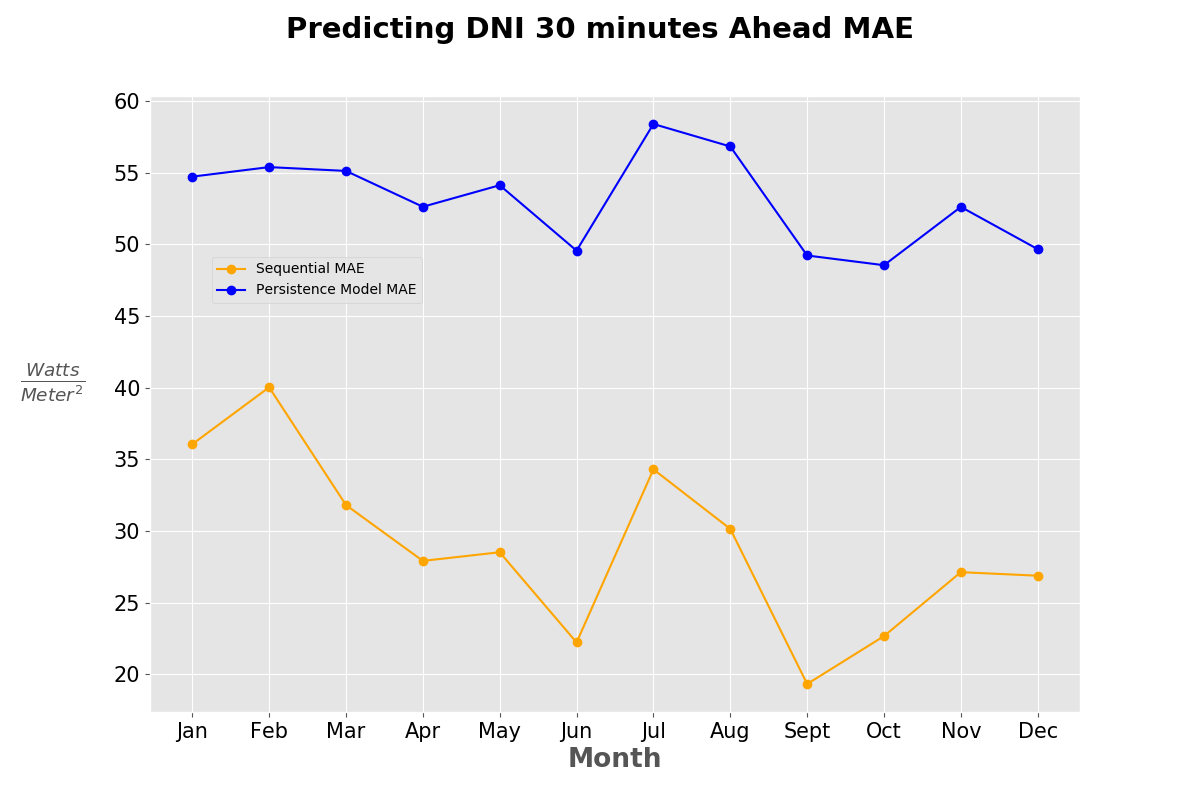
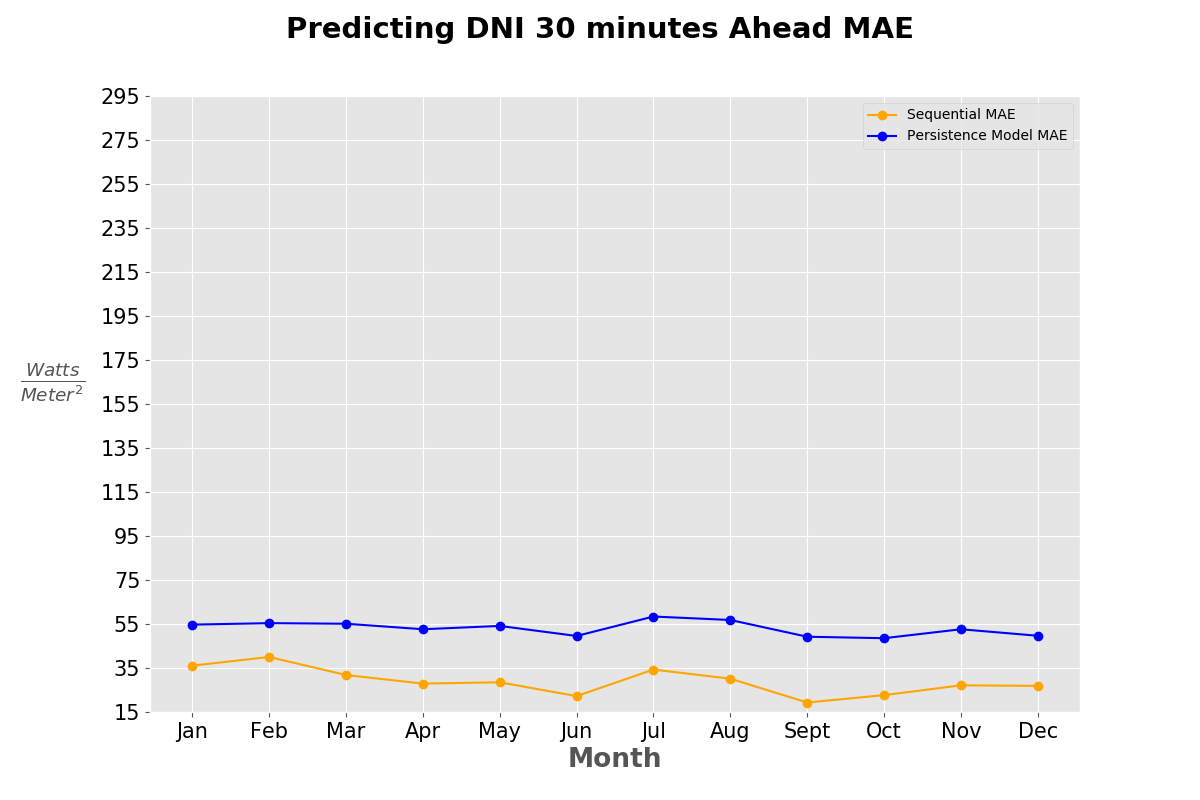
edit legend location on plots

diff --git a/src/future_30_120_min_modeling.py b/src/future_30_120_min_modeling.py
@@ -64,6 +64,55 @@ def separate_mae_rmse(parent_dict):
     return mae_errors, rmse_errors
 
 
+def adj_error_plot(error_dict, colors, title, xlab, ylab, legend_x_loc, legend_y_loc, savefig=False):
+    '''
+    Plots the errors of two model against each other
+
+    Parameters:
+    ----------
+    error_dict : (dict)
+        A dictionary where the keys are the names of the error arrays
+        (i.e 'Linear Regression Error') and the values are an array_like
+        (array/list) sequence of errors
+    colors : (list)
+        List of strings equal to number of keys in error_dict
+        (one color for each array of model errors)
+    title : (str)
+        The title for the plot
+    xlab : (str)
+        Label for x-axis
+    ylab : (str)
+        Label for y-axis
+    savefig : (bool/str)
+        If False default, image will be displayed and not saved. If the
+        user would like the image saved, pass the filepath as string to
+        which the image should be saved.
+
+    Returns:
+    ----------
+    None
+    '''
+
+    fig, ax = plt.subplots(figsize=(12,8))
+    counter = 0
+
+    for name, array in error_dict.items():
+        ax.plot(array, '-o', c=colors[counter], label=f"{name}")
+        counter +=1
+
+    plt.xticks(range(0,12), ['Jan','Feb','Mar','Apr','May','Jun','Jul','Aug','Sept','Oct','Nov','Dec'])
+    plt.yticks(range(15, 301, 20))
+    plt.xlabel(xlab, fontweight='bold', fontsize=19)
+    plt.ylabel(ylab, fontweight='bold', rotation=0, fontsize=19)
+    ax.tick_params(axis='both', labelcolor='black', labelsize=15.0)
+    ax.yaxis.set_label_coords(-0.105,0.5)
+    plt.suptitle(title, fontweight='bold', fontsize=21)
+    plt.legend(bbox_to_anchor=(legend_x_loc, legend_y_loc))
+    if savefig:
+        plt.savefig(savefig)
+    else:
+        plt.show()
+
 if __name__ == "__main__":
 
     errors_30_120_min = {}
@@ -97,6 +146,6 @@ if __name__ == "__main__":
         mae_plot_filename = f"../images/t_plus_{duration}_mae_errors.png"
         rmse_plot_filename = f"../images/t_plus_{duration}_rmse_errors.png"
 
-        error_plot(mae_errors, ['orange','blue'], suptitle + " MAE", "Month", r"$\frac{Watts}{Meter^2}$", 0.3, 0.75, mae_plot_filename)
+        adj_error_plot(mae_errors, ['orange','blue'], suptitle + " MAE", "Month", r"$\frac{Watts}{Meter^2}$", 1, 1, mae_plot_filename)
 
-        error_plot(rmse_errors, ['orange','blue'], suptitle + " RMSE", "Month", r"$\frac{Watts}{Meter^2}$", 0.325, 0.15, rmse_plot_filename)
+        adj_error_plot(rmse_errors, ['orange','blue'], suptitle + " RMSE", "Month", r"$\frac{Watts}{Meter^2}$", 0.29, 0.155, rmse_plot_filename)
